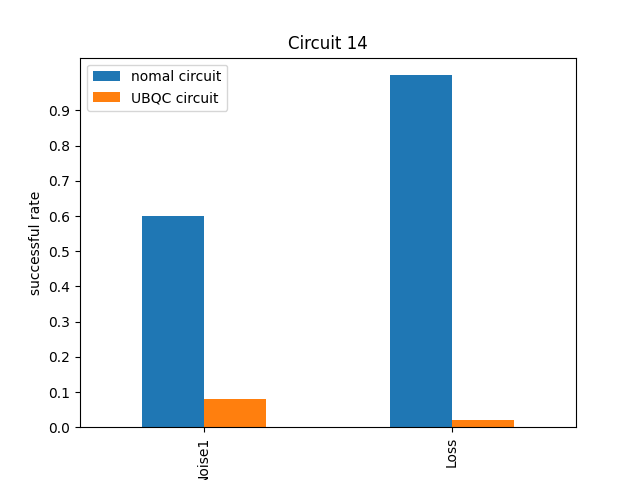
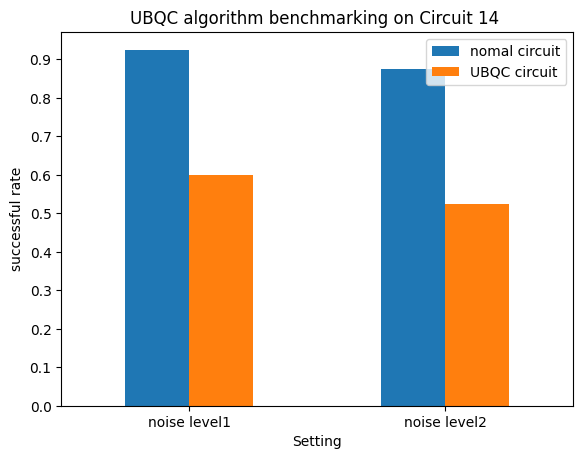
add new config and refine

Changed region(s): [[0.0, 0.0, 0.988, 1.0], [0.494, 0.9455, 0.5866, 0.976], [0.0309, 0.122, 0.0926, 0.1525]]

diff --git a/Jupyter-notebook/blindingAnalysis.py b/Jupyter-notebook/blindingAnalysis.py
@@ -67,13 +67,13 @@ def ubqcSim(path,configfile,maxQubits,num_times,exp_result):
             programs={"Alice": alice_program, "Bob": bob_program},
             num_times=1))
 
+    #print(f"resListTmp: {resListTmp}")
     # extract only the result
-    if(configfile!="config_noise.yaml" and configfile!="config_lossy_link.yaml"):    
+    if(configfile!="config_noise.yaml" and configfile!="config_lossy_link.yaml" and configfile!="config_noise2.yaml" ):    
         resList = resListTmp[0][0]
 
-    if(configfile=="config_noise.yaml" or configfile=="config_lossy_link.yaml"):
+    if(configfile=="config_noise.yaml" or configfile=="config_lossy_link.yaml" or configfile=="config_noise2.yaml" ):
         #print(f"resListTmp :{resListTmp}")
-
         results = [resListTmp[i][1][0][0] for i in range(num_times)]
         resList.append(results)
 
@@ -90,7 +90,7 @@ def ubqcSim(path,configfile,maxQubits,num_times,exp_result):
 if __name__ == "__main__":
 
     fileName = "tempCircuit.qasm"
-    Mynum_times = 10
+    Mynum_times = 40
     exp_res = [1,1,1,1,0]
 
     normRateList = []
@@ -113,39 +113,33 @@ if __name__ == "__main__":
 
     #=========================================================================
     
-    configFile = "config_lossy_link.yaml"
-    normalRes,correct_rate = normalSim(fileName,configFile
+    configFile = "config_noise2.yaml"
+    normalRes2,correct_rate2 = normalSim(fileName,configFile
         ,maxQubits=20,num_times=Mynum_times,exp_result=exp_res)
     #print(f"normalRes :{normalRes}")
-    #print(f"normal crrect Rate :{correct_rate}")
-    normRateList.append(correct_rate)
+    normRateList.append(correct_rate2)
     
 
-    ubquRes, ubqc_correct_rate = ubqcSim(fileName,configFile
+    ubquRes2, ubqc_correct_rate2 = ubqcSim(fileName,configFile
         ,maxQubits=20,num_times=Mynum_times,exp_result=exp_res)
     #print(f"ubquRes :{ubquRes}")
-    #print(f"ubqc crrect Rate :{ubqc_correct_rate}")
-    ubqcRateList.append(ubqc_correct_rate)
+    ubqcRateList.append(ubqc_correct_rate2)
 
-    #print(f"normRateList:{normRateList}")
-    #print(f"ubqcRateList:{ubqcRateList}")
     
     #=========================================================================
     print(f"normRateList:{normRateList}")
     print(f"ubqcRateList:{ubqcRateList}")
-    #, 'Loss' 
-    #'Setting': ['Noise on'], 
+
     df = pd.DataFrame({ 
-    'Setting': ['only noise', 'only loss'], 
+    'Setting': ['noise level1', 'noise level2'], 
     'nomal circuit': normRateList, 
     'UBQC circuit': ubqcRateList 
     }) # requires the same size in list
 
-    
+
     df.plot(x= 'Setting' ,y=['nomal circuit','UBQC circuit'], kind="bar")  #"Noise case", "Loss case"
-    #plt.xticks(rotation=90)
+
     plt.xticks(rotation='horizontal')
-    #plt.xticks(rotation=45,ha='right')
     plt.tight_layout()
     plt.subplots_adjust(left=0.1, right=0.9, top=0.9 ) #bottom=0.8
 
@@ -153,7 +147,7 @@ if __name__ == "__main__":
     plt.yticks(np.arange(0.0, 1.0, 0.1))
     plt.ylabel('successful rate')
 
-    plt.savefig('plotTest7.png',bbox_inches='tight')
+    plt.savefig('plotTest9.png',bbox_inches='tight')
     plt.show()
 
 

diff --git a/Jupyter-notebook/README.md b/Jupyter-notebook/README.md
@@ -19,7 +19,8 @@ The UBQC protocol provides a scenario in which the client assigns a specific qua
 2. Configure the simulation by tuning the parameters in function `run_simulation()` in the cells. Or use the default configuration without modification.
 3. Press shift + enter keys to run a cell in the jupyter notebook. If the input circuit is legit, the software will draw the input circuit and give the computational results. 
 
-
+# Note
+- A new configuration file with noise or loss need to be included in `ubqcSim` function in order to extract the right outcome. Otherwise the successful rate will always be 0.
 
 # Additional tool
 One of the quantum circuit import method is via a `.qasm` file. For those who are not familiar with QASM syntax but want to try the feature, we provides a script(`makeQASMfile.py`) to convert Qiskit quantum circuit object to a `.qasm` file.
